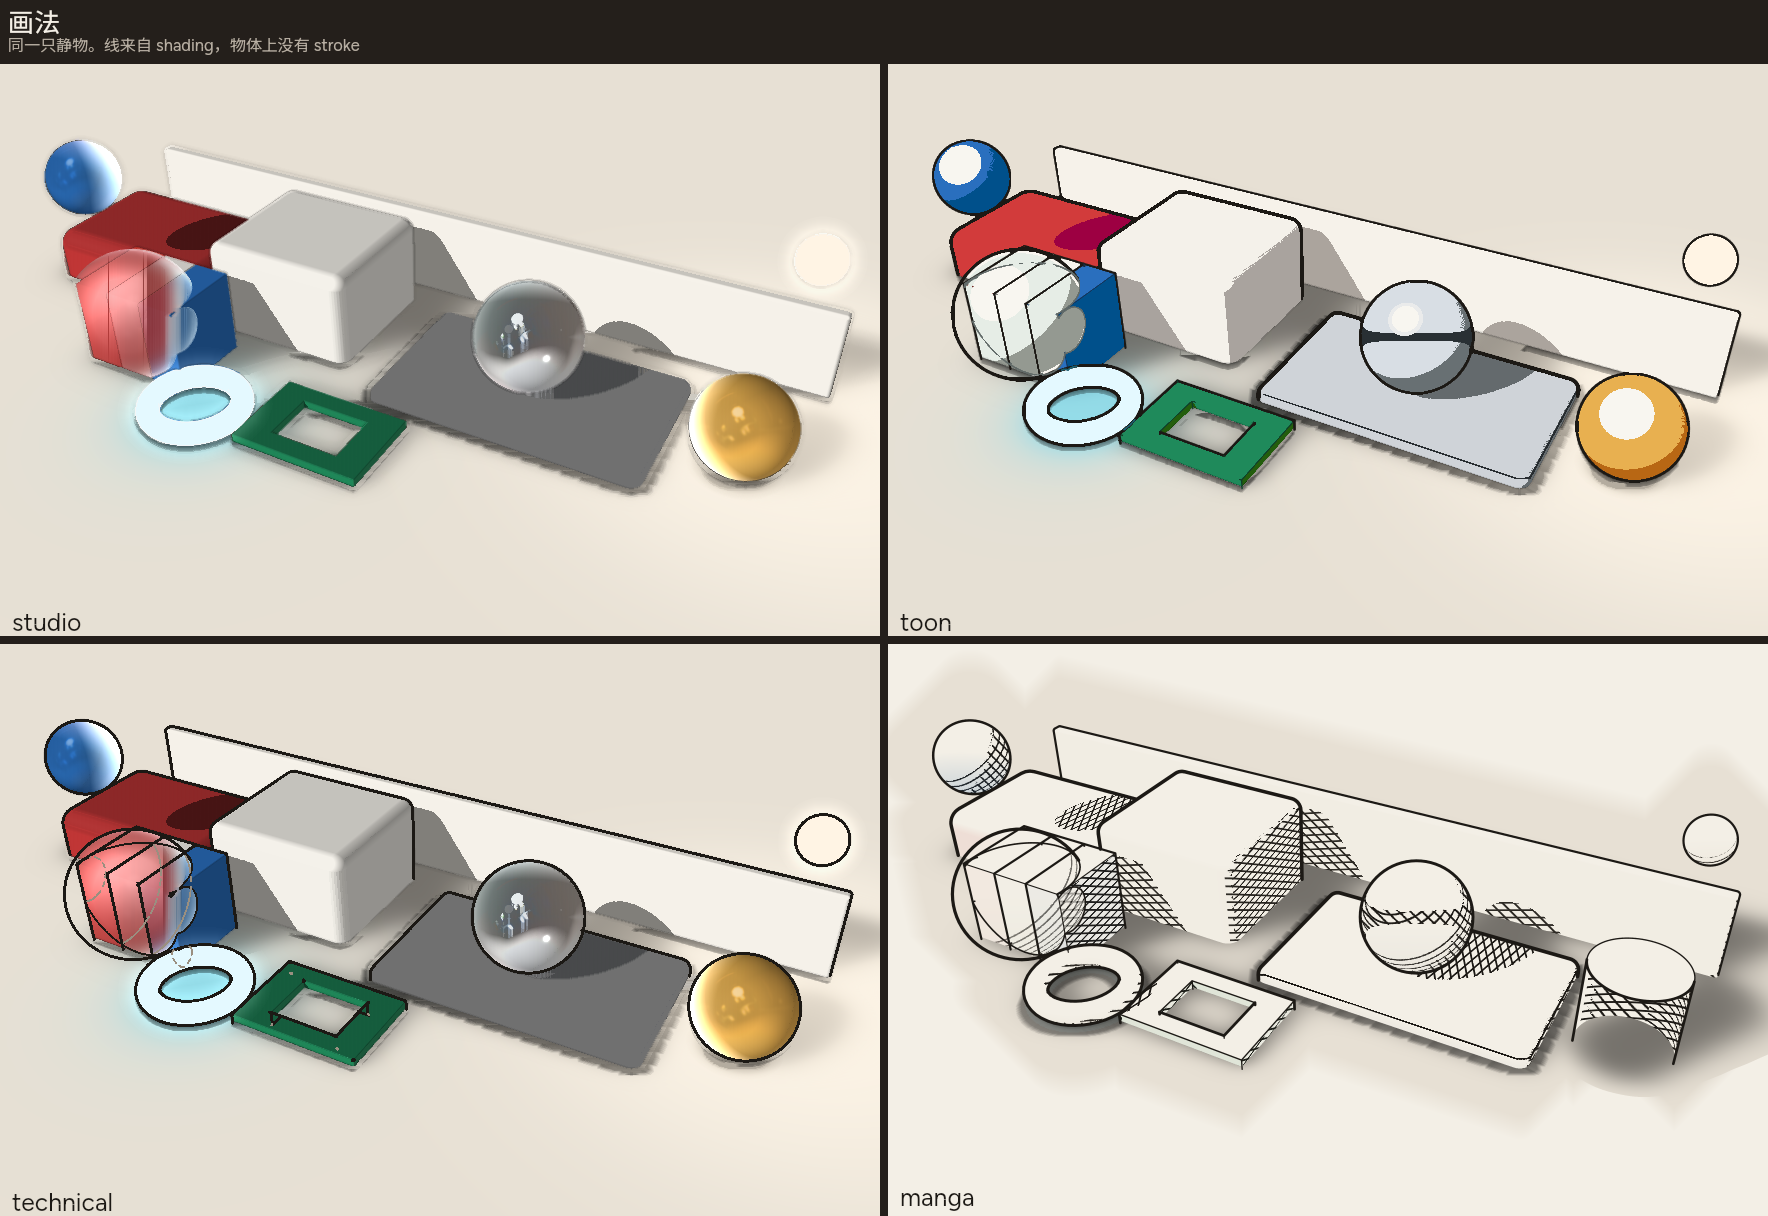
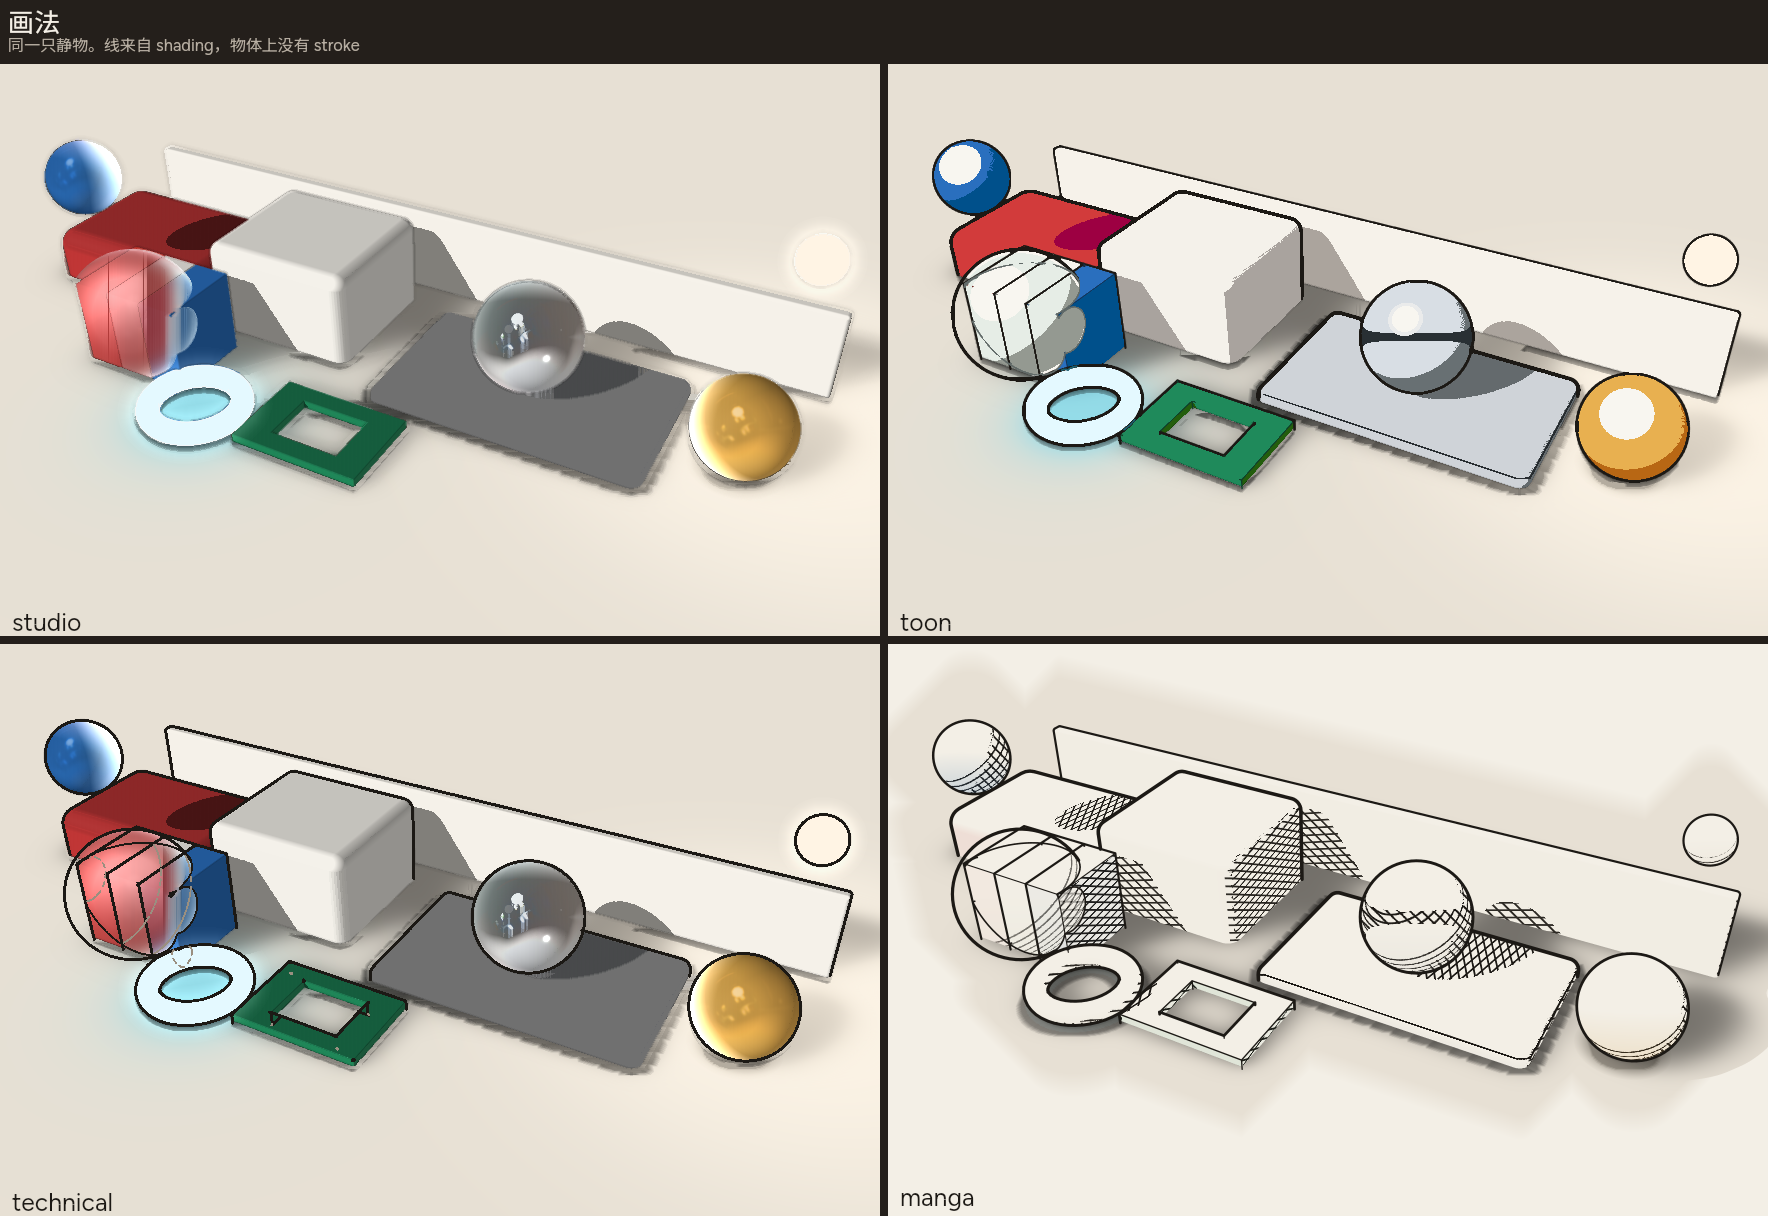
QUALITY-6 rest5e: manga gold sphere + hatch baseline; clearer side/high glass
rest5d dual-blind min 6/7/6/6/7. Put the plastic gold sphere on manga too and
clearer glass on high/side camera orbits. Lines seating stays at rest5d — further
board drop failed the hidden-line mask gate.

Changed region(s): [[0.871, 0.7812, 1.0, 0.9062]]

diff --git a/scripts/gallery-3d.ts b/scripts/gallery-3d.ts
@@ -305,9 +305,8 @@ function lines(): string {
   // visible. Framing keeps left/right empty ≤ 15% and empty-below ≤ 25%.
   // Technical shading avoids studio specular blow-past of overexposureMax.
   // Rest5b: matte cream fills — bare fill read as brushed diagonal banding for A.
-  // Rest5c/d: fill-less ground at y=620 (opaque cream → ground-seam gate).
-  // Rest5d: drop the board (y 20→55) so soft contact reads closer without burial.
-  // Elbow halo 8→3 (banded halo).
+  // Rest5d: fill-less ground at y=620; board y=55 (further drop broke hidden-line
+  // mask ≥0.9). Elbow halo 8→3. Rest5e leaves lines seating; tips manga gold + camera glass.
   return `<layer width="1180" height="516" camera="fov 36, orbit 28 18, distance 1060, at 560 340 0" shading="technical">
     <ground id="ground" y="620" rotateX="90" shadow-blur="70" shadow-opacity="0.28" />
     <layer x="40" y="55" width="1100" height="580" rotateX="38" preserve-3d>
@@ -398,25 +397,21 @@ function buildPlates(): { sheet: string; title: string; cols: number; cells: Pla
     }),
   }
   // Rest5: mid-warm page like still — dark #241f1b made camera/shade wall fringe loud for A.
-  // Rest5d: closed plastic gold box on studio/toon/technical + quality + camera.
-  // Manga keeps the extruded circle so hatchFlipEngine stays on the engine baseline.
-  // Rest5d: sphere — extruded circle read hollow/inverted (B); flat box blew contactMax 0.75.
+  // Rest5d/e: plastic gold sphere — extruded circle read hollow/inverted (B);
+  // flat box blew contactMax 0.75. Rest5e: manga gets the sphere too; rebake
+  // engine-baseline/3d-shade-manga.png so hatchFlipEngine stays ≤0.02.
   const GOLD_SPHERE =
     '<sphere id="gold" cx="780" cy="150" r="42" z="42" fill="#e8b050" material="plastic 0.28" />'
   const GOLD_CIRCLE =
     '<circle id="gold" cx="780" cy="150" r="40" depth="160" fill="#e0a33a" material="plastic 0.22" />'
-  const withGoldBox = (body: string) => body.replace(GOLD_CIRCLE, GOLD_SPHERE)
-  const shading = (['studio', 'toon', 'technical', 'manga'] as const).map((name) => {
-    let body = bench(BENCH_CAMERA, `shading="${name}"`)
-    if (name !== 'manga') body = withGoldBox(body)
-    return {
-      name: `3d-shade-${name}`,
-      source: cell(name, body, BENCH_W, BENCH_H, '#4a453e'),
-    }
-  })
+  const withGoldSphere = (body: string) => body.replace(GOLD_CIRCLE, GOLD_SPHERE)
+  const shading = (['studio', 'toon', 'technical', 'manga'] as const).map((name) => ({
+    name: `3d-shade-${name}`,
+    source: cell(name, withGoldSphere(bench(BENCH_CAMERA, `shading="${name}"`)), BENCH_W, BENCH_H, '#4a453e'),
+  }))
   const quality = (['draft', 'final'] as const).map((name) => ({
     name: `3d-quality-${name}`,
-    source: cell(name, withGoldBox(bench(BENCH_CAMERA, `quality="${name}"`)), BENCH_W, BENCH_H),
+    source: cell(name, withGoldSphere(bench(BENCH_CAMERA, `quality="${name}"`)), BENCH_W, BENCH_H),
   }))
   // Dark page for sphere highlightArea monotonicity (examples-3d / gallery
   // pair gates). Box silver comes from sphere-excluded flat_metal lift.
@@ -435,13 +430,20 @@ function buildPlates(): { sheet: string; title: string; cols: number; cells: Pla
     { label: 'aperture 14', camera: `${BENCH_CAMERA}, aperture 14`, file: 'dof' },
   ]
   const cameraCells = cameras.map((item) => {
-    // Rest5d: plastic gold box (not metal — jagged rim); no rest5c softener (B stairs).
-    let body = withGoldBox(bench(item.camera))
+    // Rest5d/e: gold sphere; no rest5c softener (B stairs).
+    let body = withGoldSphere(bench(item.camera))
     // Rest5b: B side orbit (62 22) read blue-float as hanging with no contact.
     if (item.file === 'side') {
       body = body.replace(
         '<sphere id="blue-float" cx="160" cy="200" r="34" z="140" fill="#2a6fbe" material="plastic 0.42" />',
         '<sphere id="blue-float" cx="165" cy="118" r="34" z="50" fill="#2a6fbe" material="plastic 0.42" />',
+      )
+    }
+    // Rest5e: B high/side glass read as RGB streak / muddy smear through stripes.
+    if (item.file === 'high' || item.file === 'side') {
+      body = body.replace(
+        '<sphere id="glass" cx="264" cy="268" r="58" z="58" fill="#d8ebe6a0" material="glass 0.06" />',
+        '<sphere id="glass" cx="250" cy="250" r="52" z="52" fill="#f4f8f6cc" material="glass 0.04" />',
       )
     }
     return {
